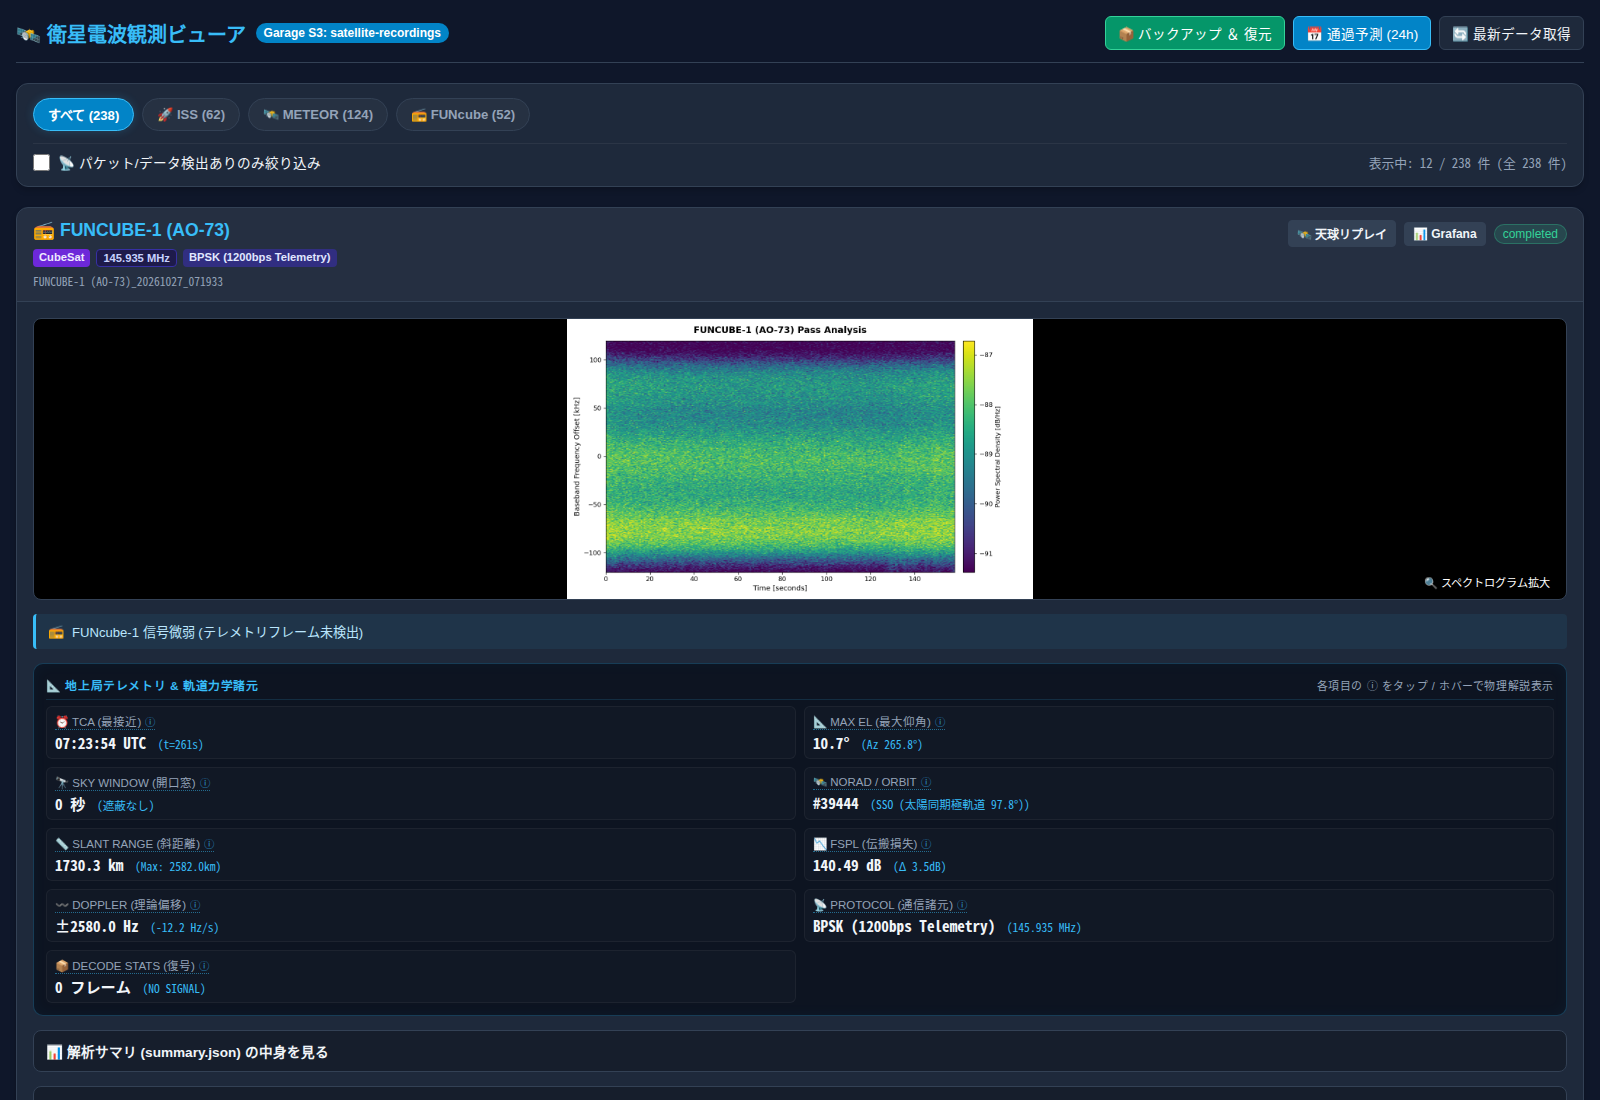
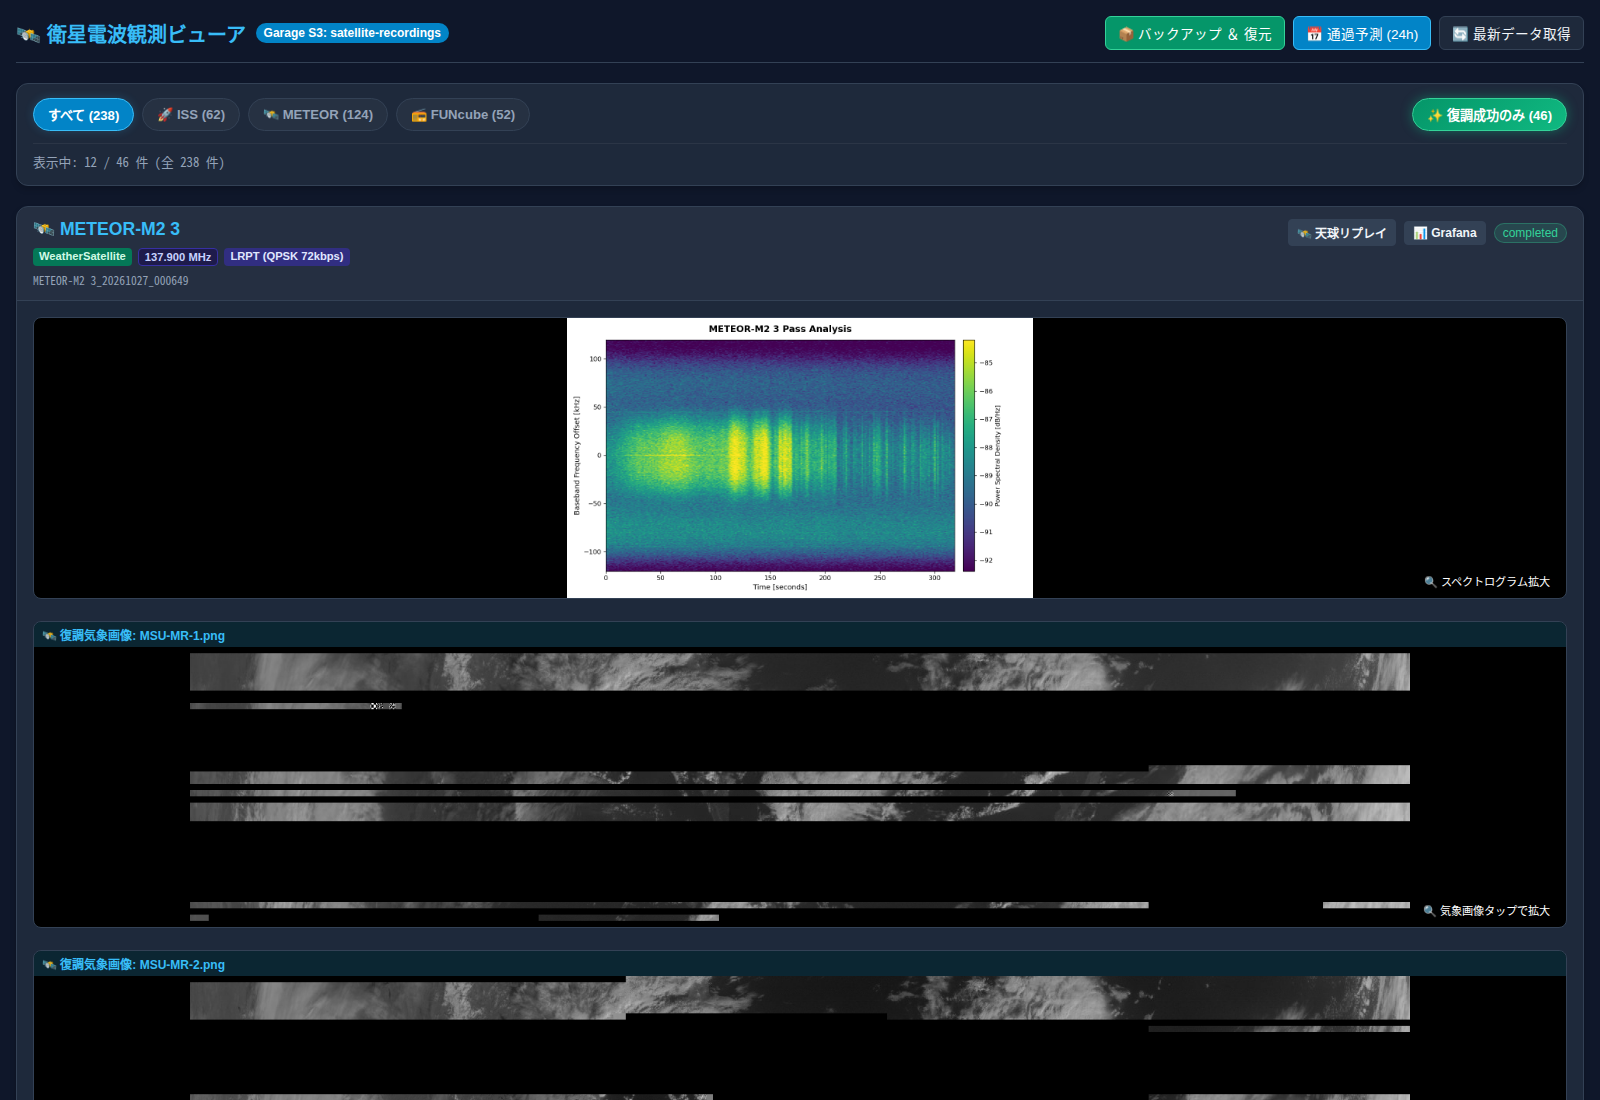
feat: 観測ビューアに復調成功パス絞り込みボタンを追加

diff --git a/apps/satellite-viewer/app.py b/apps/satellite-viewer/app.py
@@ -776,6 +776,22 @@ HTML_TEMPLATE = """<!DOCTYPE html>
       border-color: var(--accent);
       box-shadow: 0 0 10px var(--accent-glow);
     }
+    .chip.chip-toggle {
+      border-color: rgba(16, 185, 129, 0.4);
+      color: #34d399;
+      background: rgba(16, 185, 129, 0.08);
+      margin-left: auto;
+    }
+    .chip.chip-toggle:hover {
+      background: rgba(16, 185, 129, 0.16);
+      color: #6ee7b7;
+    }
+    .chip.chip-toggle.active {
+      background: linear-gradient(135deg, #059669, #10b981);
+      color: #ffffff;
+      border-color: #34d399;
+      box-shadow: 0 0 12px rgba(16, 185, 129, 0.45);
+    }
     .filter-options {
       display: flex;
       justify-content: space-between;
@@ -1190,12 +1206,11 @@ HTML_TEMPLATE = """<!DOCTYPE html>
       <button class="chip" onclick="setCategoryFilter('SpaceStation', this)">🚀 ISS (<span id="count-spacestation">0</span>)</button>
       <button class="chip" onclick="setCategoryFilter('WeatherSatellite', this)">🛰 METEOR (<span id="count-weathersatellite">0</span>)</button>
       <button class="chip" onclick="setCategoryFilter('CubeSat', this)">📻 FUNcube (<span id="count-cubesat">0</span>)</button>
+      <button class="chip chip-toggle" id="btnDemodOnly" onclick="toggleDemodFilter(this)">
+        ✨ 復調成功のみ (<span id="count-demod-success">0</span>)
+      </button>
     </div>
     <div class="filter-options">
-      <label class="toggle-label">
-        <input type="checkbox" id="hasPacketsToggle" onchange="applyFilters()">
-        <span>📡 パケット/データ検出ありのみ絞り込み</span>
-      </label>
       <span class="matched-count" id="matchedCount">読み込み中...</span>
     </div>
   </div>
@@ -2243,8 +2258,17 @@ HTML_TEMPLATE = """<!DOCTYPE html>
     // --- 無限スクロール & 動的ロード ロジック ---
     let currentPage = 1;
     let currentCategory = 'all';
+    let isDemodOnly = false;
     let isLoading = false;
     let hasMore = true;
+
+    function toggleDemodFilter(btnElement) {
+      isDemodOnly = !isDemodOnly;
+      if (btnElement) {
+        btnElement.classList.toggle('active', isDemodOnly);
+      }
+      loadPasses(1, true);
+    }
 
     async function loadPasses(page = 1, reset = false) {
       if (isLoading) return;
@@ -2254,10 +2278,7 @@ HTML_TEMPLATE = """<!DOCTYPE html>
       const loader = document.getElementById('scrollLoader');
       if (loader) loader.classList.add('active');
 
-      const toggle = document.getElementById('hasPacketsToggle');
-      const hasPacketsOnly = toggle ? toggle.checked : false;
-
-      const url = `/api/passes?page=${page}&limit=12&category=${encodeURIComponent(currentCategory)}&has_data=${hasPacketsOnly ? 'true' : 'false'}`;
+      const url = `/api/passes?page=${page}&limit=12&category=${encodeURIComponent(currentCategory)}&demod_only=${isDemodOnly ? 'true' : 'false'}`;
       try {
         const res = await fetch(url);
         if (!res.ok) throw new Error('HTTP ' + res.status);
@@ -2279,6 +2300,7 @@ HTML_TEMPLATE = """<!DOCTYPE html>
           if (document.getElementById('count-spacestation')) document.getElementById('count-spacestation').textContent = data.counts.spacestation || 0;
           if (document.getElementById('count-weathersatellite')) document.getElementById('count-weathersatellite').textContent = data.counts.weathersatellite || 0;
           if (document.getElementById('count-cubesat')) document.getElementById('count-cubesat').textContent = data.counts.cubesat || 0;
+          if (document.getElementById('count-demod-success')) document.getElementById('count-demod-success').textContent = data.counts.demod_success || 0;
         }
 
         const matchedEl = document.getElementById('matchedCount');
@@ -2584,6 +2606,33 @@ def get_satellite_type(p: dict) -> str:
     elif "FUNCUBE" in sat_upper or "AO-73" in sat_upper:
         return "CubeSat"
     return "GenericSatellite"
+
+
+def is_demod_successful(p: dict) -> bool:
+    """
+    パスデータが復調に成功した（中身が見える成果が得られた）かを判定する。
+    - 気象衛星: スペクトログラム以外の復調気象画像（MSU-MR 等）が 1 枚以上生成されていること
+    - キューブサット / 宇宙ステーション / その他: デコードされたパケット数が 1 件以上あること
+    """
+    summary = p.get("summary") or {}
+    files = p.get("files") or {}
+    packets_count = summary.get("packets_count", 0)
+
+    # スペクトログラム以外の画像ファイル（気象写真等）が存在するか判定
+    file_keys = files.keys() if isinstance(files, dict) else files
+    has_decoded_images = any(
+        any(fname.lower().endswith(ext) for ext in (".png", ".jpg", ".jpeg", ".bmp"))
+        and "spectrogram" not in fname.lower()
+        for fname in file_keys
+    )
+
+    if has_decoded_images:
+        return True
+
+    if packets_count > 0:
+        return True
+
+    return False
 
 
 def resolve_card_metadata(p: dict):
@@ -3013,7 +3062,7 @@ def render_card_html(p: dict) -> str:
 
     files_grid_html = "".join(file_rows)
     badge_class = f"badge-{sat_type.lower()}"
-    has_data_val = "true" if (packets_count > 0 or sat_type in ["WeatherSatellite", "CubeSat"]) else "false"
+    has_data_val = "true" if is_demod_successful(p) else "false"
 
     # 地上局テレメトリ諸元 & パケットプレビューの生成
     metrics = resolve_pass_telemetry_metrics(p)
@@ -3461,26 +3510,33 @@ class DashboardHandler(BaseHTTPRequestHandler):
                 limit = 12
             category = query.get("category", ["all"])[0]
             has_data_param = query.get("has_data", ["false"])[0].lower() in ["true", "1", "yes"]
+            demod_only_param = query.get("demod_only", ["false"])[0].lower() in ["true", "1", "yes"]
+            filter_demod = has_data_param or demod_only_param
 
             all_passes = pass_cache.get_all_passes()
 
-            counts = {"all": 0, "spacestation": 0, "weathersatellite": 0, "cubesat": 0}
+            counts = {
+                "all": 0,
+                "spacestation": 0,
+                "weathersatellite": 0,
+                "cubesat": 0,
+                "demod_success": 0,
+            }
             for p in all_passes:
                 st = get_satellite_type(p).lower()
                 counts["all"] += 1
                 if st in counts:
                     counts[st] += 1
+                if is_demod_successful(p):
+                    counts["demod_success"] += 1
 
             matched_passes = []
             for p in all_passes:
                 st = get_satellite_type(p)
                 if category != "all" and st.lower() != category.lower():
                     continue
-                if has_data_param:
-                    summary = p.get("summary") or {}
-                    packets_count = summary.get("packets_count", 0)
-                    if packets_count == 0 and st not in ["WeatherSatellite", "CubeSat"]:
-                        continue
+                if filter_demod and not is_demod_successful(p):
+                    continue
                 matched_passes.append(p)
 
             total_matched = len(matched_passes)

diff --git a/apps/satellite-viewer/test_viewer.py b/apps/satellite-viewer/test_viewer.py
@@ -14,6 +14,7 @@ from app import (
     PassDataCache,
     render_card_html,
     get_satellite_type,
+    is_demod_successful,
     parse_pass_id,
     generate_trajectory_data,
     generate_future_passes_data,
@@ -346,6 +347,50 @@ class TestViewerOptimizations(unittest.TestCase):
             self.assertEqual(members[0].size, len(content_sample))
             extracted_data = tf.extractfile(members[0]).read()
             self.assertEqual(extracted_data, content_sample)
+
+    def test_is_demod_successful(self):
+        # 1. WeatherSatellite with images -> True
+        p_meteor_success = {
+            "satellite": "METEOR-M2 3",
+            "summary": {"status": "completed", "packets_count": 0},
+            "files": {"spectrogram.png": "path/spec.png", "MSU-MR-1.png": "path/img.png"}
+        }
+        self.assertTrue(is_demod_successful(p_meteor_success))
+
+        # 2. WeatherSatellite without images (only spectrogram) -> False
+        p_meteor_fail = {
+            "satellite": "METEOR-M2 3",
+            "summary": {"status": "completed", "packets_count": 0, "summary_text": "信号微弱"},
+            "files": {"spectrogram.png": "path/spec.png"}
+        }
+        self.assertFalse(is_demod_successful(p_meteor_fail))
+
+        # 3. CubeSat with packets -> True
+        p_cubesat_success = {
+            "satellite": "FUNCUBE-1 (AO-73)",
+            "summary": {"status": "completed", "packets_count": 3},
+            "files": {"spectrogram.png": "path/spec.png"}
+        }
+        self.assertTrue(is_demod_successful(p_cubesat_success))
+
+        # 4. CubeSat with 0 packets -> False
+        p_cubesat_fail = {
+            "satellite": "FUNCUBE-1 (AO-73)",
+            "summary": {"status": "completed", "packets_count": 0},
+            "files": {"spectrogram.png": "path/spec.png"}
+        }
+        self.assertFalse(is_demod_successful(p_cubesat_fail))
+
+        # 5. Card html data-has-data reflects is_demod_successful
+        card_html_success = render_card_html(p_meteor_success)
+        self.assertIn('data-has-data="true"', card_html_success)
+
+        card_html_fail = render_card_html(p_meteor_fail)
+        self.assertIn('data-has-data="false"', card_html_fail)
+
+    def test_html_template_has_demod_filter_button(self):
+        self.assertIn('id="btnDemodOnly"', HTML_TEMPLATE)
+        self.assertIn('id="count-demod-success"', HTML_TEMPLATE)
 
 
 if __name__ == "__main__":

diff --git a/docs/qa/10_observation_metrics_and_heuristic_evaluation.md b/docs/qa/10_observation_metrics_and_heuristic_evaluation.md
@@ -142,7 +142,43 @@ cargo run --bin ground-station -- metrics --discord
 
 ---
 
-## 6. 一次情報リンク
+## 6. Web 観測ビューア（`satellite-viewer`）における復調成功フィルタ
+
+本ドキュメントの「中身が見える」判定基準は、Web 観測ダッシュボード（[`apps/satellite-viewer`](../../apps/satellite-viewer)）のフィルタリング機能としても直接統合されています。
+
+### 6.1 復調成功判定関数 `is_demod_successful`
+S3（Garage）に記録された数百件規模の観測パス情報（`summary.json` およびファイル一覧）から、真に「中身が見える」成果が得られたパスを以下の決定論的ルールで判定します：
+
+```python
+def is_demod_successful(p: dict) -> bool:
+    summary = p.get("summary") or {}
+    files = p.get("files") or {}
+    packets_count = summary.get("packets_count", 0)
+
+    # 1. 気象衛星: スペクトログラム以外の復調気象画像（MSU-MR 等）が 1 枚以上生成されているか
+    file_keys = files.keys() if isinstance(files, dict) else files
+    has_decoded_images = any(
+        any(fname.lower().endswith(ext) for ext in (".png", ".jpg", ".jpeg", ".bmp"))
+        and "spectrogram" not in fname.lower()
+        for fname in file_keys
+    )
+    if has_decoded_images:
+        return True
+
+    # 2. CubeSat / ISS / その他: CRC 検証を通過したデコードパケットが 1 件以上あるか
+    if packets_count > 0:
+        return True
+
+    return False
+```
+
+### 6.2 UI トグルボタン「✨ 復調成功のみ」
+- **直感的な絞り込み**: ツールバーに配置された `✨ 復調成功のみ (XX)` チップをクリックすることで、微弱信号（QPSK シンボル同期未確立やパケット未検出）を一括除外。
+- **カテゴリフィルタとの連動**: 「METEOR」や「FUNcube」などの衛星カテゴリと掛け合わせて「気象画像が生成されたパスのみ」「テレメトリが得られたパスのみ」を瞬時に抽出可能。
+
+---
+
+## 7. 一次情報リンク
 - [JSON Lines Text Format Specification](https://jsonlines.org/)
 - [DuckDB: Querying JSON Lines](https://duckdb.org/docs/data/json/overview.html)
 - [Discord Developer Portal: Execute Webhook (Embeds Object)](https://discord.com/developers/docs/resources/webhook#execute-webhook)

diff --git a/docs/04_qa.md b/docs/04_qa.md
@@ -55,6 +55,7 @@
   - 「検知が難しいものはあきらめる作戦」（FM音声や未復調保全を Unknown として除外する3値モデル）
   - 判定母数を厳選した真の成功率（Quality of Reception）数理モデル
   - 地上局 CLI サブコマンド（`ground-station metrics`）による集計レポート表示
+  - Web 観測ビューア（`satellite-viewer`）における復調成功フィルタ（`is_demod_successful`）への統合
 - [恒星電波の受信可能性・感度限界と電波天文学的アプローチ詳解](qa/11_stellar_radio_reception_and_sensitivity_limits.md)
   - 恒星黒体放射とレイリー・ジーンズ則（恒星立体角 $\Omega$ による微弱電波の物理）
   - 電波望遠鏡の感度限界：ラジオメーターの式（$T_{\text{sys}}, B, \tau, A_e$ による最小検出フラックス $\Delta S_{\text{min}}$ の数理）
